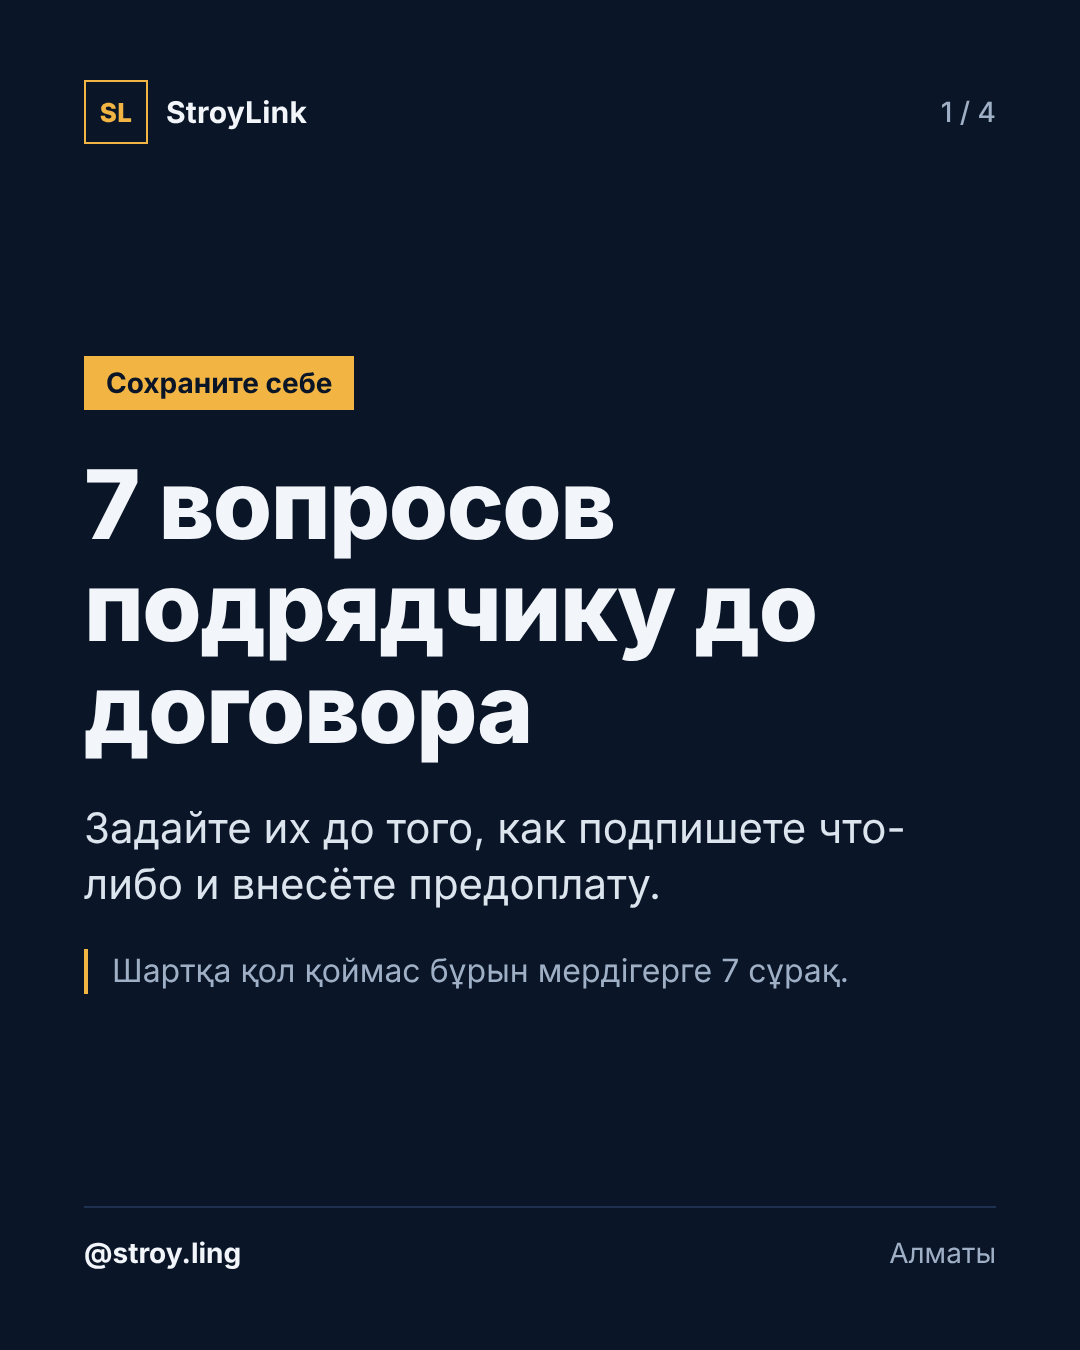
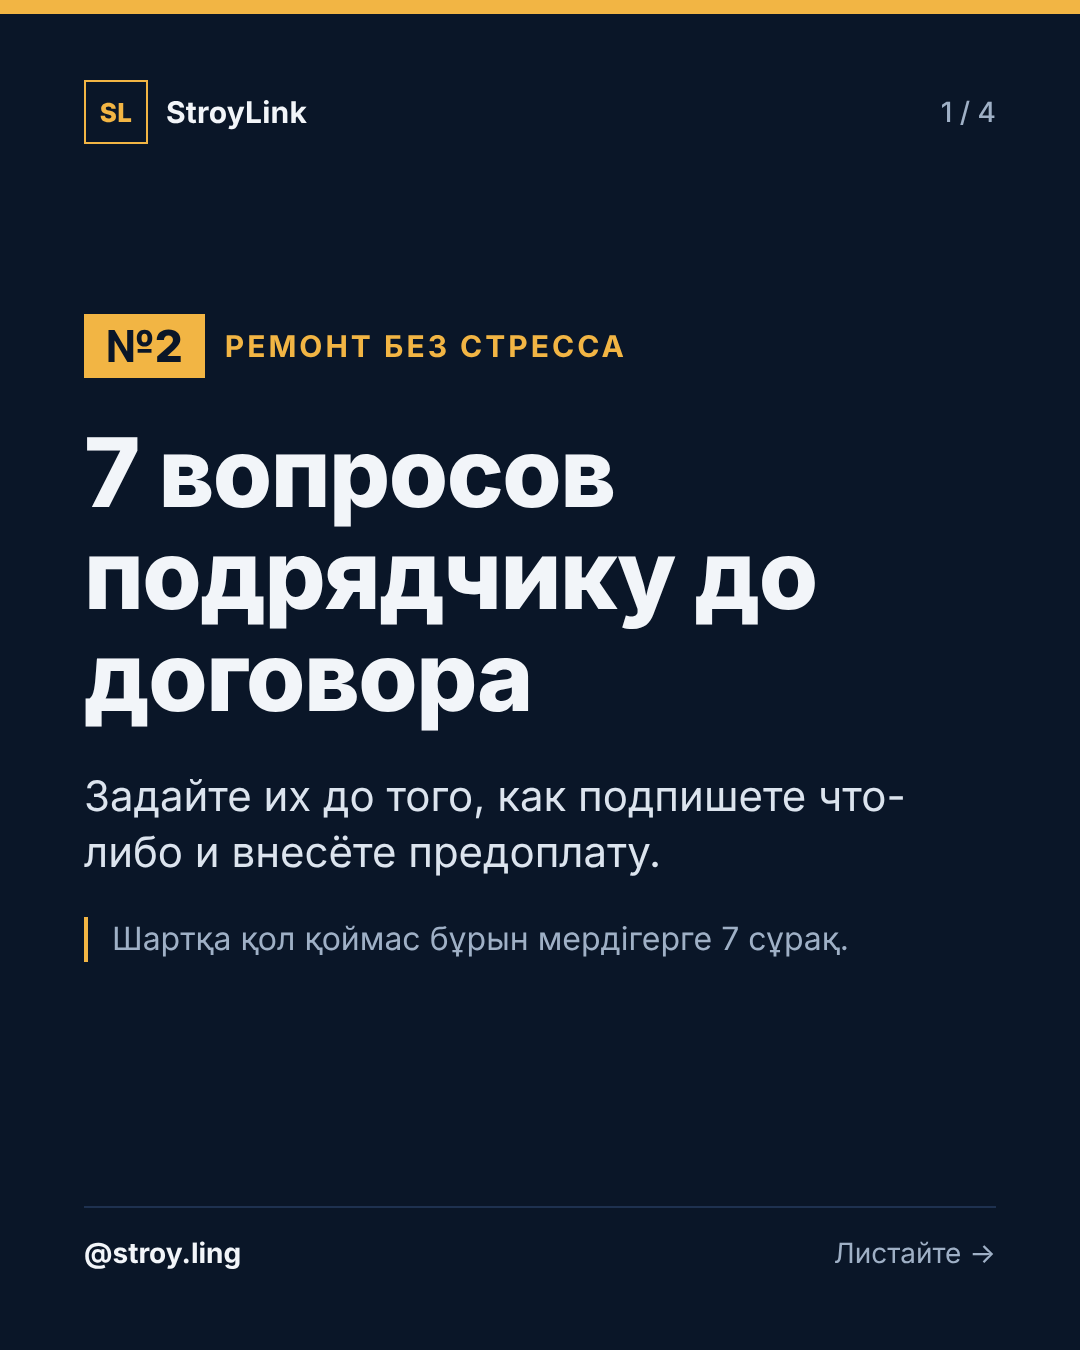
Uniform post covers (series 'Ремонт без стресса'), profile grid preview, series names
Claude-Session: https://claude.ai/code/session_01UM831MUUmWNr2Std2r2tpJ

Changed region(s): [[0.0611, 0.2178, 0.825, 0.7467], [0.0, 0.0, 1.0, 0.0311], [0.7639, 0.9022, 0.9167, 0.9333]]

diff --git a/stroylink/instagram/captions.md b/stroylink/instagram/captions.md
@@ -3,6 +3,16 @@
 Картинки лежат в этой же папке. Загружайте слайды по порядку номеров (`_01`, `_02`...). Каждый пост — карусель.
 Подписи ниже на русском + короткий дубль на казахском (в рекламе для Казахстана нужен казахский язык, проверьте актуальные требования).
 
+## Рубрика (серия) постов
+**Ремонт без стресса** (қазақша: *Ремонт стрессіз*). Әр пост нөмірленеді: №1, №2, №3, №4. Мұқабада нөмір мен рубрика атауы бірдей орында тұрады, сондықтан профиль торы біркелкі көрінеді (`profile-grid-preview.png`). Келесі постарды №5, №6… деп жалғастырамыз.
+
+| № | Пост атауы |
+|---|---|
+| №1 | Как это работает |
+| №2 | 7 вопросов подрядчику до договора |
+| №3 | Из чего складывается стоимость ремонта |
+| №4 | 6 красных флагов при выборе бригады |
+
 ---
 
 ## Пост 1 — «Как это работает» (3 слайда: `post1-kak-eto-rabotaet_01..03.png`)
